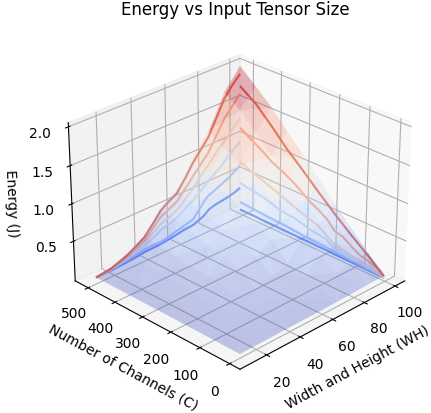
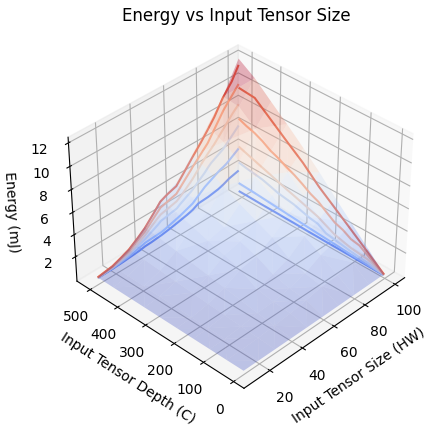
modified paper figures

diff --git a/NonLinSysIdentCPU.py b/NonLinSysIdentCPU.py
@@ -149,7 +149,7 @@ k_var, N_var, LAT_kN, POW_kN, E_kN, T_kN = [],[],[],[],[],[]
 # Ordered KPI names
 kpi_names = ['Latency', 'Power', 'Energy', 'Throughput']
 # with units
-kpi_units = ['ms', 'W', 'mJ', 'GB/s']
+kpi_units = ['s', 'W', 'mJ', 'GB/s']
 # Ordered feature names
 feature_names = ['Input Tensor Size', 'Input Tensor Depth', 'Kernel Size', 'Number of Kernel Filters']
 # with 
@@ -160,14 +160,14 @@ for sample in dataset:
     if sample[2] == k_const and sample[3] == N_const:
         WH_var.append(sample[0])
         C_var.append(sample[1])
-        LAT_WHC.append(sample[4])
+        LAT_WHC.append(sample[4]/1000)
         POW_WHC.append(sample[5])
         E_WHC.append(sample[6])
         T_WHC.append(sample[7])
     if sample[0] == WH_const and sample[1] == C_const:
         k_var.append(sample[2])
         N_var.append(sample[3])
-        LAT_kN.append(sample[4])
+        LAT_kN.append(sample[4]/1000)
         POW_kN.append(sample[5])
         E_kN.append(sample[6]) 
         T_kN.append(sample[7])

diff --git a/NonLinSysIdentGPU.py b/NonLinSysIdentGPU.py
@@ -149,7 +149,7 @@ k_var, N_var, LAT_kN, POW_kN, E_kN, T_kN = [],[],[],[],[],[]
 # Ordered KPI names
 kpi_names = ['Latency', 'Power', 'Energy', 'Throughput']
 # with units
-kpi_units = ['ms', 'W', 'mJ', 'GB/s']
+kpi_units = ['s', 'W', 'mJ', 'GB/s']
 # Ordered feature names
 feature_names = ['Input Tensor Size', 'Input Tensor Depth', 'Kernel Size', 'Number of Kernel Filters']
 # with 
@@ -160,14 +160,14 @@ for sample in dataset:
     if sample[2] == k_const and sample[3] == N_const:
         WH_var.append(sample[0])
         C_var.append(sample[1])
-        LAT_WHC.append(sample[4])
+        LAT_WHC.append(sample[4]/1000)
         POW_WHC.append(sample[5])
         E_WHC.append(sample[6])
         T_WHC.append(sample[7])
     if sample[0] == WH_const and sample[1] == C_const:
         k_var.append(sample[2])
         N_var.append(sample[3])
-        LAT_kN.append(sample[4])
+        LAT_kN.append(sample[4]/1000)
         POW_kN.append(sample[5])
         E_kN.append(sample[6]) 
         T_kN.append(sample[7])
